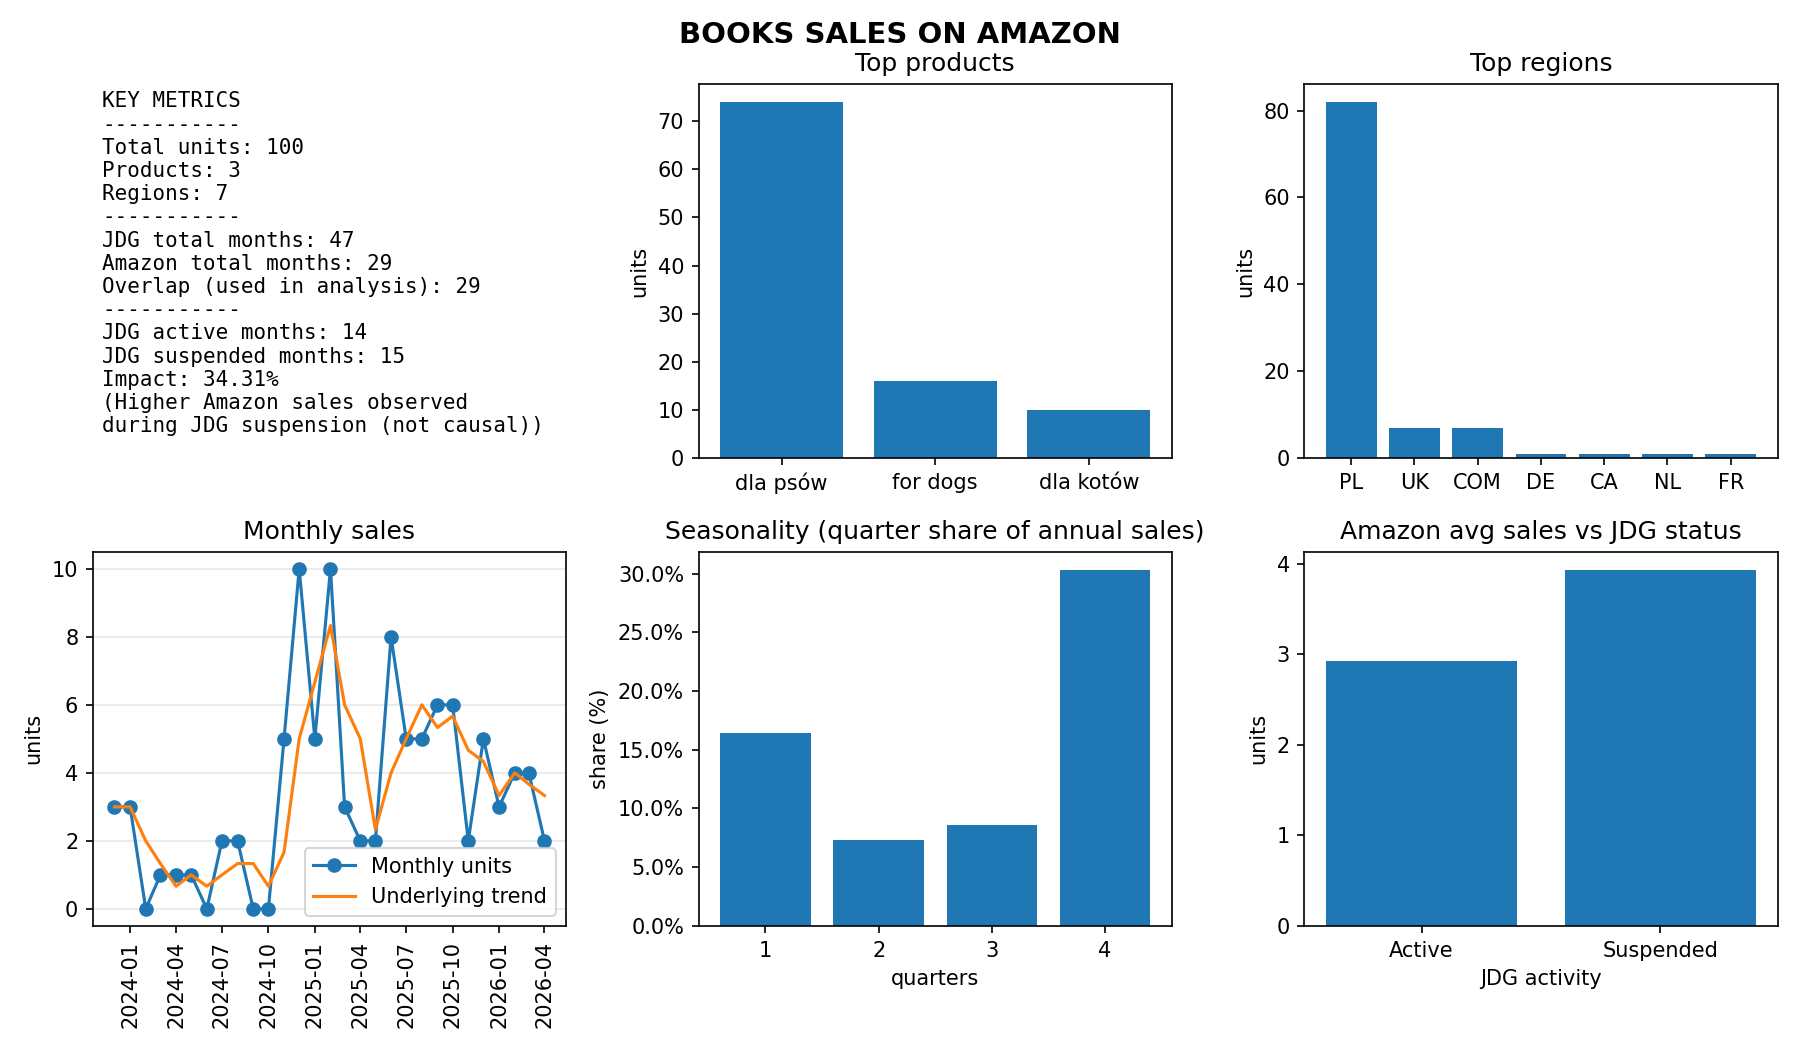
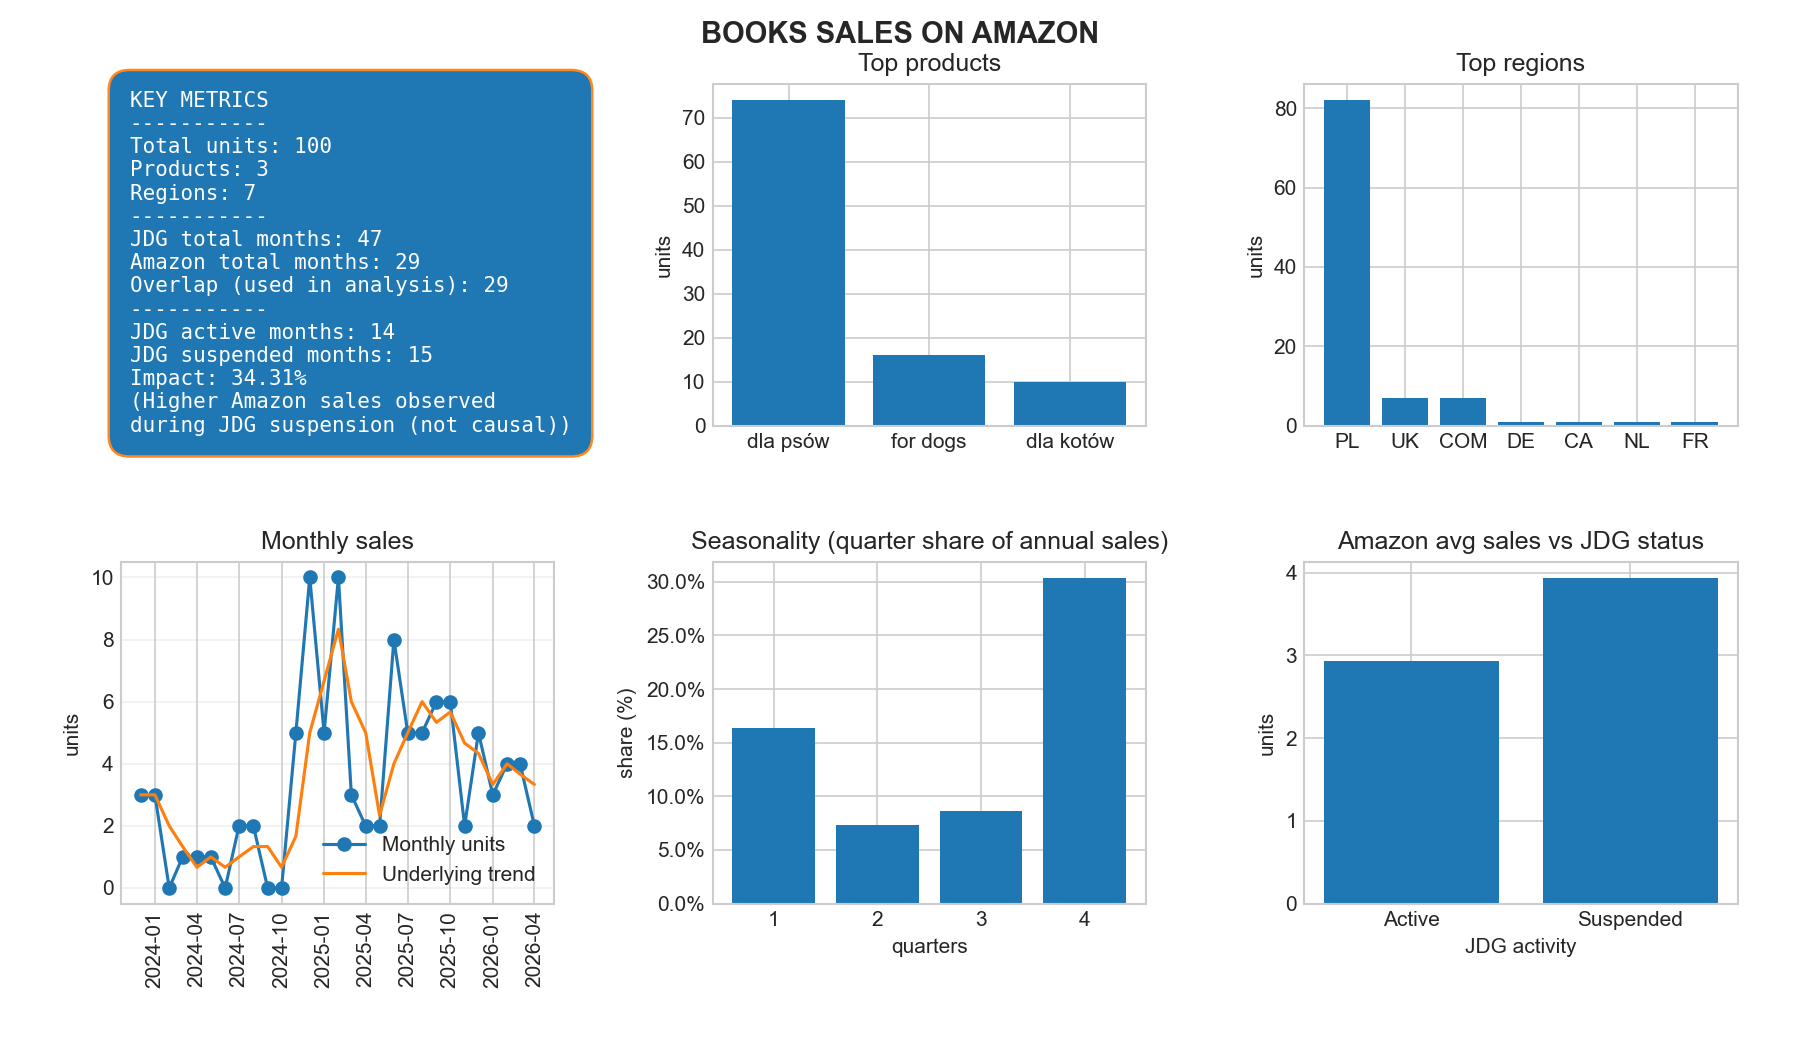
styles: dashboard improvements matplotlib

diff --git a/src/visualizer.py b/src/visualizer.py
@@ -2,6 +2,7 @@ import os
 import matplotlib.pyplot as plt
 from matplotlib.ticker import PercentFormatter
 
+plt.style.use("seaborn-v0_8-whitegrid")
 
 def plot_kpis(ax, kpis: dict):
     ax.axis("off")
@@ -29,7 +30,14 @@ def plot_kpis(ax, kpis: dict):
         va="top",
         ha="left",
         fontsize=10,
-        family="Monospace"
+        family="Monospace",
+        color="white",
+        bbox=dict(
+            boxstyle="round,pad=1.0",
+            facecolor="#1F77B4",
+            edgecolor="#FF871E",
+            linewidth=1.2
+        )
     )
 
 def plot_top_products(ax, df, n_top):
@@ -102,7 +110,7 @@ def save_dashboard(
     plot_channel_bar(axs[1, 2], df_own_impact)
 
     fig.suptitle("BOOKS SALES ON AMAZON", fontsize=14, y=0.98, fontweight="bold")
-    plt.tight_layout()
+    plt.tight_layout(pad=3.0)
     plt.subplots_adjust(top=0.92)
 
     os.makedirs(out_dir, exist_ok=True)
